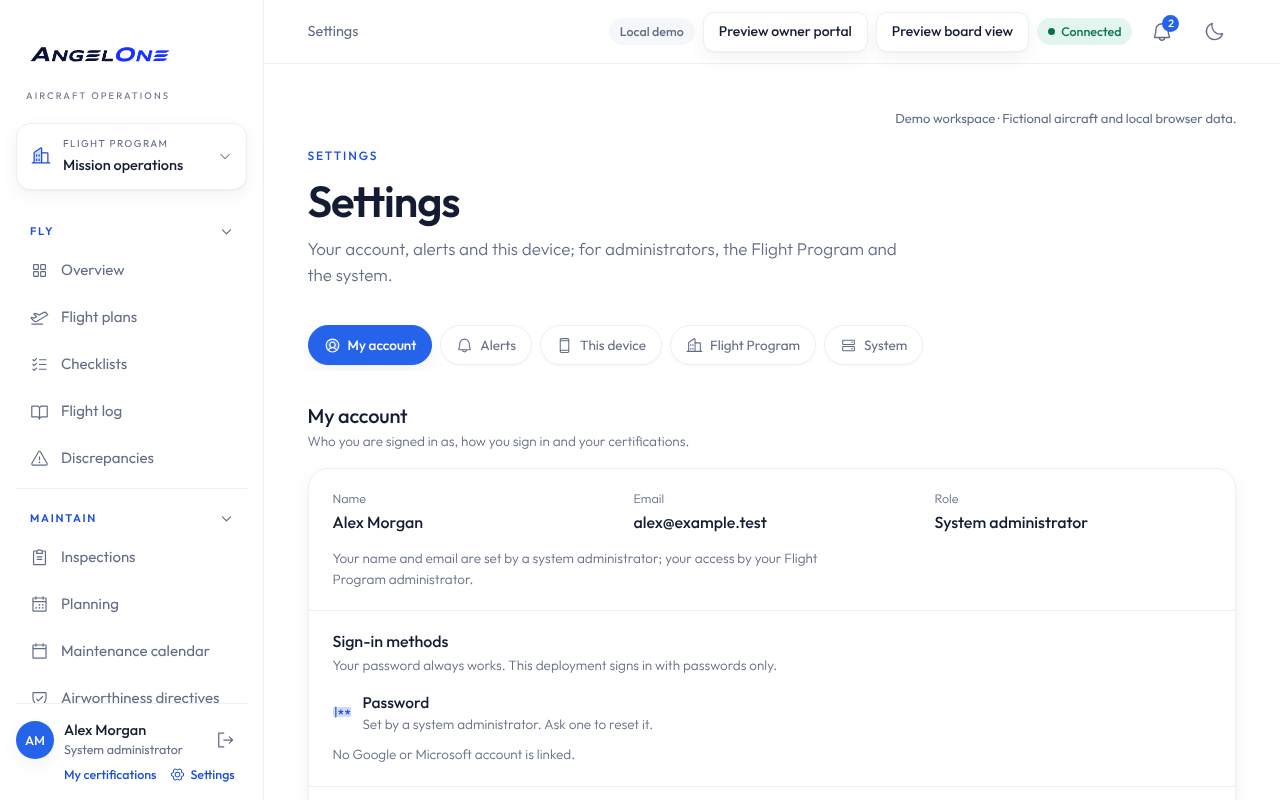
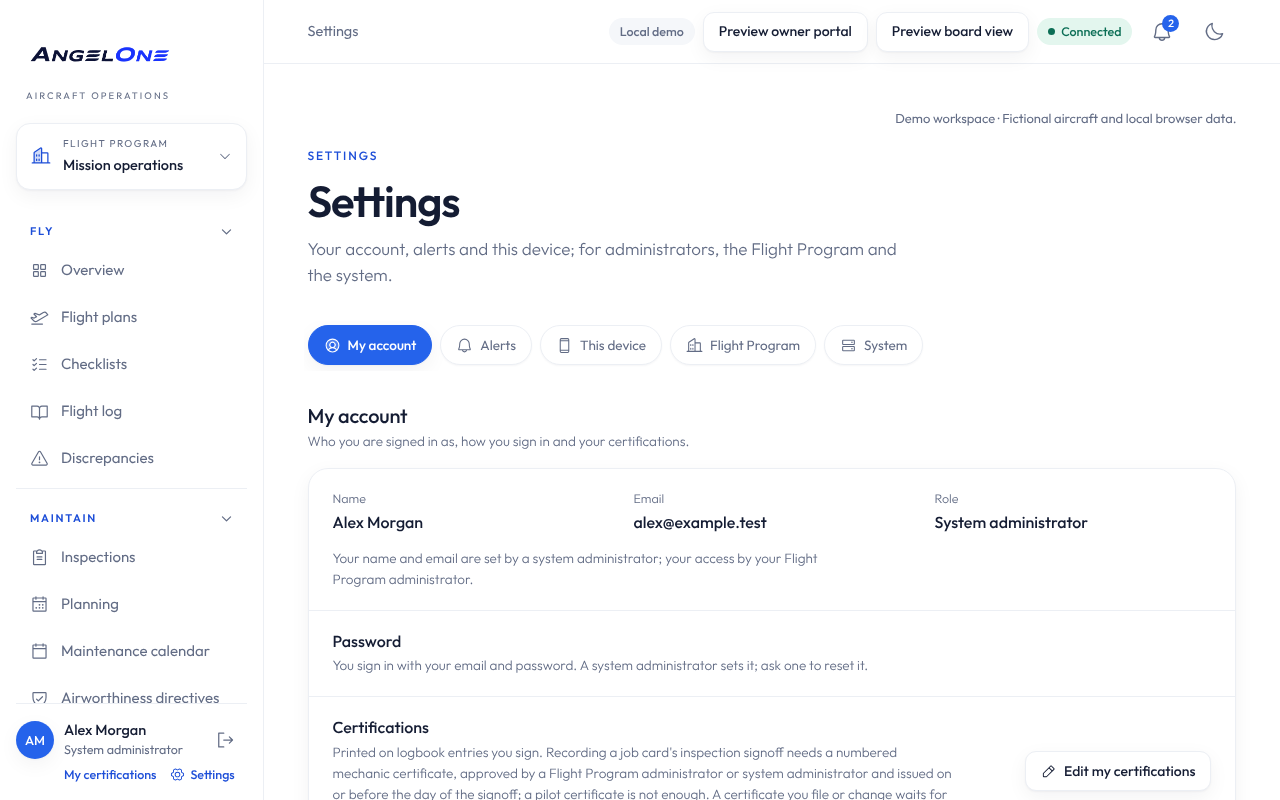
Remove Google and Microsoft sign-in from the handbook and wiki
ADR-0015 removed Google and Microsoft sign-in. The handbook, wiki and
incident runbook still described it as built but off: the FAQ answer,
the sign-in summary, the Entra secret rotation, the AUTH_GOOGLE_* and
AUTH_MICROSOFT_ENTRA_ID_* variables, the account to create, the costs
and accounts rows, and the wiki's sign-in buttons, linked-account line
and error messages.

Risks R14 and R15 now reflect password-only sign-in, with A3 and A10
closed. The decisions page marks ADR-0001 and ADR-0009 as superseded in
part and adds ADR-0015; the changelog records the removal. The wiki
Settings screenshot is retaken without the linked-account line.

Changed region(s): [[0.25, 0.875, 0.75, 1.0], [0.25, 0.7812, 0.6562, 0.8438], [0.8125, 0.9375, 0.9375, 0.9688]]

diff --git a/docs/handbook/4-money-and-risk/risks.md b/docs/handbook/4-money-and-risk/risks.md
@@ -31,8 +31,8 @@ The risk register for Angel One, as of 20 November 2026. Review it with the quar
 | R11 | **The file sweep deletes a needed file.** It removes stored files no record refers to ([runbook](../../runbooks/file-sweep.md))                                                                                                                                                                                                                                                                                                                      | Low                                                          | Medium: a file is gone until restored from a backup             | Starts in report mode and deletes nothing until `FILE_SWEEP=delete`; never touches files older than its first day or younger than a day; an independent review found no unsafe path; files are in every backup                                                                                                                                    | Aaron                                           | Reduced: review the first report before switching to delete          |
 | R12 | **A lost or stolen device.** As R10, plus pending entries                                                                                                                                                                                                                                                                                                                                                                                            | Medium                                                       | Medium                                                          | [Incident runbook: lost device](../../runbooks/incident-response.md#lost-or-stolen-device): reset the password, remote-erase                                                                                                                                                                                                                      | Aaron                                           | Reduced. Gap: the app cannot wipe a device that stays offline        |
 | R13 | **Public repository.** Anyone can read the code, docs and runbooks, and find a weakness first                                                                                                                                                                                                                                                                                                                                                        | Medium                                                       | Medium                                                          | No secrets in the repository (gitleaks scans every push, full history); CodeQL on; server checks every permission; disclosure policy ([SECURITY.md](../../../SECURITY.md)). Private would cost GitHub minutes and a paid plan ([costs](services-and-costs.md#github))                                                                             | Aaron                                           | Accepted                                                             |
-| R14 | **No second factor (2FA)** on app accounts: `@convex-dev/auth` has none ([ADR-0009](../../adr/0009-password-for-everyone-plus-google-and-microsoft.md)). Two-step sign-in on operator accounts (GitHub, Cloudflare, Convex, Google, Resend, registrar, Dropbox, Better Stack) is not yet confirmed or enforced                                                                                                                                       | Medium                                                       | High for an administrator or operator account                   | 15-character passwords; lockout after 10 failures; sign-ins logged; turn on 2FA on every operator account and require it for the GitHub organisation; revisit when the library adds passkeys                                                                                                                                                      | Aaron                                           | Open                                                                 |
-| R15 | **Open security findings** from the [4 Nov review](../../security/review-2026-11-04.md): A3 (first Google or Microsoft link trusts the provider; SSO stays off until fixed), A4 (sign-in timing shows which emails have accounts), S2 (anyone who knows an email can lock it for an hour), S11 (partly: an added person appears in the member list), C8 (service worker cache rule matches path only), A10 (hash refused SSO emails, when SSO is on) | Low to Medium                                                | Low to Medium                                                   | Each has a decision or a small fix listed in the review                                                                                                                                                                                                                                                                                           | Aaron                                           | Open                                                                 |
+| R14 | **No second factor (2FA)** on app accounts: `@convex-dev/auth` has none, and with password-only sign-in no outside provider can add one ([ADR-0015](../../adr/0015-remove-google-and-microsoft-sign-in.md)). Two-step sign-in on operator accounts (GitHub, Cloudflare, Convex, Google, Resend, registrar, Dropbox, Better Stack) is not yet confirmed or enforced                                                                                   | Medium                                                       | High for an administrator or operator account                   | 15-character passwords; lockout after 10 failures; sign-ins logged; turn on 2FA on every operator account and require it for the GitHub organisation; revisit when the library adds passkeys                                                                                                                                                      | Aaron                                           | Open                                                                 |
+| R15 | **Open security findings** from the [4 Nov review](../../security/review-2026-11-04.md): A4 (sign-in timing shows which emails have accounts), S2 (anyone who knows an email can lock it for an hour), S11 (partly: an added person appears in the member list), C8 (service worker cache rule matches path only)                                                                                                                                    | Low to Medium                                                | Low to Medium                                                   | Each has a decision or a small fix listed in the review                                                                                                                                                                                                                                                                                           | Aaron                                           | Open                                                                 |
 | R16 | **Account inventory and incident contacts are blank.** Nobody else knows who owns the registrar, Cloudflare, Resend or the FAA key                                                                                                                                                                                                                                                                                                                   | High                                                         | Medium                                                          | Fill in [accounts](../../runbooks/accounts.md), [incident response](../../runbooks/incident-response.md) and [break-glass](../../runbooks/break-glass-admin.md)                                                                                                                                                                                   | Aaron                                           | Open                                                                 |
 | R17 | **The auth library is pre-release** (`@convex-dev/auth` 0.0.x). A flaw in 0.0.95 let anyone delete records (S1, fixed)                                                                                                                                                                                                                                                                                                                               | Medium                                                       | High                                                            | Merge its security updates at once ([recurring tasks](../../go-live-checklist.md#recurring-tasks)); the dependency audit in CI                                                                                                                                                                                                                    | Aaron                                           | Reduced                                                              |
 | R18 | **Personal data kept forever.** Monthly backups are kept for good; a deletion request can't reach them                                                                                                                                                                                                                                                                                                                                               | Low                                                          | Low                                                             | Records retention comes first; say so in the privacy notice ([ADR-0008](../../adr/0008-daily-backups-off-site-90-days-monthly-forever.md))                                                                                                                                                                                                        | Aaron                                           | Accepted: privacy notice still to write                              |

diff --git a/docs/handbook/3-running-it/setup-from-scratch.md b/docs/handbook/3-running-it/setup-from-scratch.md
@@ -36,9 +36,8 @@ Use organization accounts, not personal ones, with two-step sign-in on. Record w
 | 6   | [FAA DRS API key](https://drs.faa.gov/drs-api)                                                                                                                      | Airworthiness-directive search and daily monitoring                                                                  | Optional; AD monitoring is off without it                                                      |
 | 7   | [Geoapify](https://myprojects.geoapify.com/)                                                                                                                        | Address lookup on purchase orders                                                                                    | Optional; addresses can be checked by hand                                                     |
 | 8   | Dropbox (organization account)                                                                                                                                      | The readable Excel copy of the records ([ADR-0011](../../adr/0011-readable-records-copy-in-dropbox.md))              | Optional                                                                                       |
-| 9   | Google Cloud project and Microsoft Entra app registration                                                                                                           | Google and Microsoft sign-in buttons ([ADR-0009](../../adr/0009-password-for-everyone-plus-google-and-microsoft.md)) | Optional                                                                                       |
-| 10  | Sentry                                                                                                                                                              | Browser and server error reports                                                                                     | Optional, off today ([monitoring runbook](../../runbooks/monitoring.md#sentry-browser-errors)) |
-| 11  | Aircraft Spruce                                                                                                                                                     | Parts catalogue and ordering, one login per Flight Program, entered in the app                                       | Optional                                                                                       |
+| 9   | Sentry                                                                                                                                                              | Browser and server error reports                                                                                     | Optional, off today ([monitoring runbook](../../runbooks/monitoring.md#sentry-browser-errors)) |
+| 10  | Aircraft Spruce                                                                                                                                                     | Parts catalogue and ordering, one login per Flight Program, entered in the app                                       | Optional                                                                                       |
 
 ## 2. Local development on a clean machine
 
@@ -130,8 +129,6 @@ Set them in the dashboard (production deployment → **Settings** → **Environm
 | `RESEND_FROM`                                                                                    | Convex        | With `RESEND_API_KEY`                                              | Verified sender                                                                                                          | `Angel One <alerts@mail.example.org>`                               |
 | `VAPID_PUBLIC_KEY`, `VAPID_PRIVATE_KEY`                                                          | Convex        | No                                                                 | Urgent alerts on devices ([section 6.2](#62-device-alerts-web-push))                                                     | base64url key pair                                                  |
 | `VAPID_SUBJECT`                                                                                  | Convex        | With the VAPID keys                                                | Contact for push services                                                                                                | `mailto:accounts@example.org`                                       |
-| `AUTH_GOOGLE_ID`, `AUTH_GOOGLE_SECRET`                                                           | Convex        | No                                                                 | Google sign-in button ([accounts runbook](../../runbooks/accounts.md#google-cloud-sign-in-client))                       | `1234-abc.apps.googleusercontent.com`, `GOCSPX-...`                 |
-| `AUTH_MICROSOFT_ENTRA_ID_ID`, `AUTH_MICROSOFT_ENTRA_ID_SECRET`, `AUTH_MICROSOFT_ENTRA_ID_ISSUER` | Convex        | No                                                                 | Microsoft sign-in button ([accounts runbook](../../runbooks/accounts.md#microsoft-entra-app-registration))               | GUID, secret value, `https://login.microsoftonline.com/common/v2.0` |
 | `FAA_DRS_API_KEY`                                                                                | Convex        | No                                                                 | Fallback FAA key until one is saved in **Settings → System**, which is the normal place                                  | FAA-issued key                                                      |
 | `GEOAPIFY_API_KEY`                                                                               | Convex        | No                                                                 | Fallback Geoapify key until one is saved in **Settings → System**                                                        | 32 hex characters                                                   |
 | `FILE_SWEEP`                                                                                     | Convex        | No; unset means `report`                                           | The hourly sweep of unreferenced files: `report`, `delete` or `off` ([file sweep runbook](../../runbooks/file-sweep.md)) | `delete`                                                            |
@@ -288,7 +285,7 @@ Sign in as the first administrator, then:
 4. **Users:** Administration → Users → create each person and assign programs and groups. Accounts are made by administrators only; there is no public sign-up ([accounts runbook](../../runbooks/accounts.md)).
 5. **Integrations:** Settings → System → **FAA API key and renewal** ([airworthiness](../../airworthiness.md)) and the Geoapify key ([addresses](../../address-verification.md)); Settings → Flight Program → Aircraft Spruce account and labor rate.
 6. **Aircraft:** Aircraft → **Set up an aircraft**: verified opening Hobbs and tach, total-time adjustment, cycles and landings; installed components from [component templates](../../component-templates.md); inspections and AD compliance from the CSV templates (download in the wizard, dry run before saving) ([aircraft setup](../../aircraft-setup.md), [inspection templates](../../inspection-templates.md), [maintenance CSV import](../../maintenance-csv-import.md)).
-7. **Expiring dates:** Settings → Flight Program → **Program expiring dates** (insurance, registration) and Settings → System → **Deployment expiring dates** (Cloudflare token, Entra secret, VAPID keys, `security.txt`) ([alerts](../../alerts.md#expiring-dates)).
+7. **Expiring dates:** Settings → Flight Program → **Program expiring dates** (insurance, registration) and Settings → System → **Deployment expiring dates** (Cloudflare token, VAPID keys, `security.txt`) ([alerts](../../alerts.md#expiring-dates)).
 8. **Manuals:** Reference library → **Upload manual** (PDF up to 200 MiB). On each hangar device, add the app to the Home Screen and use **Keep on this device** ([reference library](../../reference-library.md)).
 9. **File sweep:** after reviewing its first report, set `FILE_SWEEP=delete` ([file sweep runbook](../../runbooks/file-sweep.md)).
 10. **Break-glass account:** set it up ([runbook](../../runbooks/break-glass-admin.md)).

diff --git a/docs/handbook/5-history/decisions.md b/docs/handbook/5-history/decisions.md
@@ -9,7 +9,7 @@ Every standing decision, with its date and the choice made. Where an ADR exists 
 
 | ADR                                                                       | Date        | Decision                                                                                              |
 | ------------------------------------------------------------------------- | ----------- | ----------------------------------------------------------------------------------------------------- |
-| [0001](../../adr/0001-sso-in-app-not-cloudflare-access.md)                | 1 Nov 2026  | Access control stays in the app; Cloudflare Access is not the gate                                    |
+| [0001](../../adr/0001-sso-in-app-not-cloudflare-access.md)                | 1 Nov 2026  | Access control stays in the app; Cloudflare Access is not the gate. Superseded in part by ADR-0015    |
 | [0002](../../adr/0002-administrator-provisioned-accounts.md)              | 1 Nov 2026  | Administrators create accounts; no public sign-up or self-service reset                               |
 | [0003](../../adr/0003-server-writes-through-one-command-transaction.md)   | 1 Nov 2026  | Server writes go through one command transaction (`runCommand`)                                       |
 | [0004](../../adr/0004-logbook-generator-and-status-record-system.md)      | 1 Nov 2026  | The app writes logbook wording and keeps the 91.417(a)(2) status records; it is not the signed record |
@@ -17,11 +17,12 @@ Every standing decision, with its date and the choice made. Where an ADR exists 
 | [0006](../../adr/0006-architecture-cleanup-priorities-before-launch.md)   | 1 Nov 2026  | Which clean-ups happen before launch                                                                  |
 | [0007](../../adr/0007-convex-pro-single-seat.md)                          | 2 Nov 2026  | Convex Pro, one seat, one project                                                                     |
 | [0008](../../adr/0008-daily-backups-off-site-90-days-monthly-forever.md)  | 2 Nov 2026  | Daily off-site backups, kept 90 days; one a month kept forever                                        |
-| [0009](../../adr/0009-password-for-everyone-plus-google-and-microsoft.md) | 2 Nov 2026  | Everyone keeps a password; Google and Microsoft alongside                                             |
+| [0009](../../adr/0009-password-for-everyone-plus-google-and-microsoft.md) | 2 Nov 2026  | Everyone keeps a password; Google and Microsoft alongside. Superseded in part by ADR-0015             |
 | [0010](../../adr/0010-one-convex-administrator.md)                        | 3 Nov 2026  | One Convex administrator, no second dashboard user                                                    |
 | [0011](../../adr/0011-readable-records-copy-in-dropbox.md)                | 3 Nov 2026  | A readable Excel copy in Dropbox, alongside the backup                                                |
 | [0012](../../adr/0012-urgent-alerts-by-web-push-and-immediate-email.md)   | 9 Nov 2026  | Urgent alerts by Web Push and immediate email; expiring dates are records                             |
 | [0013](../../adr/0013-history-retention-window.md)                        | 19 Nov 2026 | The workspace keeps a retention window; older history loads page by page                              |
+| [0015](../../adr/0015-remove-google-and-microsoft-sign-in.md)             | 20 Nov 2026 | Google and Microsoft sign-in removed; everyone signs in with a password                               |
 
 ## 20 Nov 2026
 
@@ -35,6 +36,7 @@ Every standing decision, with its date and the choice made. Where an ADR exists 
 | Backup encryption                                           | Backups work **without encryption**; encryption optional and off by default ([ADR-0014](../../adr/0014-backups-stored-unencrypted.md)) | [Risks R2](../4-money-and-risk/risks.md)                                                                                   |
 | Certificate approval                                        | Nobody approves their own certificate, administrators included; another administrator approves                                         | [User certifications](../../user-certifications.md), review S20/A5                                                         |
 | D13: the price of an issued part                            | Kept in the work order's administrator-only cost record                                                                                | [Parts and repair requests](../../parts-and-repair-requests.md)                                                            |
+| Google and Microsoft sign-in                                | Removed; everyone signs in with a password. Closes security findings A3 and A10                                                        | [ADR-0015](../../adr/0015-remove-google-and-microsoft-sign-in.md)                                                          |
 
 ## History paging, H1–H7 (19 Nov 2026)
 
@@ -89,8 +91,6 @@ From [ADR-0013](../../adr/0013-history-retention-window.md).
 | 4 Nov 2026  | No idle sign-out timeout                                                                                                    | [Incident runbook](../../runbooks/incident-response.md#lost-or-stolen-device)           |
 | 19 Nov 2026 | The offline copy stays seven days, unencrypted; phones and tablets need a screen lock; sign-out clears the device (S6, S10) | [Offline](../../offline.md#signing-out-and-shared-devices)                              |
 | 19 Nov 2026 | File links expire after five minutes (S7, SE-12, D17)                                                                       | [File links](../../file-links.md)                                                       |
-| 19 Nov 2026 | Google and Microsoft sign-in stay off until A3 (first link trusts the provider) is fixed                                    | [Review 4 Nov](../../security/review-2026-11-04.md)                                     |
-| 19 Nov 2026 | Store a hash of refused SSO emails instead of the email, once SSO is on (A10)                                               | same                                                                                    |
 | 19 Nov 2026 | Backup-age warning after 26 hours instead of 36 (D10)                                                                       | [ADR-0008](../../adr/0008-daily-backups-off-site-90-days-monthly-forever.md)            |
 | 19 Nov 2026 | CodeQL default set-up on (P4)                                                                                               | [Review 4 Nov](../../security/review-2026-11-04.md)                                     |
 | —           | Security contact: accounts@angeloneonline.org                                                                               | [SECURITY.md](../../../SECURITY.md)                                                     |

diff --git a/docs/handbook/4-money-and-risk/services-and-costs.md b/docs/handbook/4-money-and-risk/services-and-costs.md
@@ -22,7 +22,7 @@ Every outside service Angel One uses: what it does, which plan, what it costs, w
 | FAA DRS API key                           | Key from the FAA               | Not known                              | For AD monitoring          |
 | Geoapify (address lookup)                 | Free                           | $0                                     | Optional feature           |
 | Aircraft Spruce                           | The program's customer account | Not known                              | Optional feature           |
-| Google Workspace                          | Organisation email             | Not part of the app's cost             | No (Google sign-in is off) |
+| Google Workspace                          | Organisation email             | Not part of the app's cost             | No                         |
 | Dropbox                                   | Optional readable copy         | $0 if on Basic                         | No                         |
 | Sentry                                    | Not used                       | $0                                     | No                         |
 
@@ -153,7 +153,7 @@ Not known: how many files the program will upload, and Convex's cloud bandwidth 
 
 |                 |                                                                                                                                                                                                                                                                                                                                                                               |
 | --------------- | ----------------------------------------------------------------------------------------------------------------------------------------------------------------------------------------------------------------------------------------------------------------------------------------------------------------------------------------------------------------------------- |
-| Does            | The organisation's email (`angeloneaviation.org` mail is Google). Could provide Google sign-in, which is built but off                                                                                                                                                                                                                                                        |
+| Does            | The organisation's email (`angeloneaviation.org` mail is Google)                                                                                                                                                                                                                                                                                                              |
 | Price           | Business Starter $7 per user a month (annual) or $8.40 (flexible); Business Standard $14 or $16.80 ([Google](https://knowledge.workspace.google.com/admin/billing/compare-flexible-and-annual-fixed-term-payment-plans)). A nonprofit edition is $0 ([Google for Nonprofits](https://www.google.com/nonprofits/offerings/workspace/)). Which one the program has is not known |
 | If it goes away | Nothing in the app depends on it today                                                                                                                                                                                                                                                                                                                                        |
 | Owner           | Not recorded yet                                                                                                                                                                                                                                                                                                                                                              |
@@ -177,8 +177,7 @@ Not known: how many files the program will upload, and Convex's cloud bandwidth 
 
 ## Accounts that cost nothing but must be kept
 
-| Account                                                       | Why it matters                                                | Where                                                                       |
-| ------------------------------------------------------------- | ------------------------------------------------------------- | --------------------------------------------------------------------------- |
-| Microsoft Entra app registration, Google Cloud sign-in client | Only if single sign-on is switched on; Entra's secret expires | [Accounts runbook](../../runbooks/accounts.md#google-and-microsoft-sign-in) |
-| The `accounts@angeloneonline.org` mailbox                     | Security reports arrive there                                 | [SECURITY.md](../../../SECURITY.md)                                         |
-| A2 Hosting cPanel                                             | Published the old test website; to be retired                 | [Accounts](../../runbooks/accounts.md)                                      |
+| Account                                   | Why it matters                                | Where                                  |
+| ----------------------------------------- | --------------------------------------------- | -------------------------------------- |
+| The `accounts@angeloneonline.org` mailbox | Security reports arrive there                 | [SECURITY.md](../../../SECURITY.md)    |
+| A2 Hosting cPanel                         | Published the old test website; to be retired | [Accounts](../../runbooks/accounts.md) |

diff --git a/docs/wiki/Settings.md b/docs/wiki/Settings.md
@@ -19,11 +19,8 @@ change it. Owners and board members have no Settings page.
 | Item              | What you can do                                                                                                  |
 | ----------------- | ---------------------------------------------------------------------------------------------------------------- |
 | Name, email, role | Read only. A system administrator sets your name and email; your Flight Program administrator sets your access.  |
-| Sign-in methods   | Your password always works. A linked Google or Microsoft account is listed with its email.                       |
+| Password          | You sign in with your email and password. A system administrator sets it; ask one to reset it.                   |
 | Certifications    | **Edit my certifications**: Pilot, and Certified mechanic with Airframe, Powerplant and Inspection Authorization |
-
-Signing in with Google or Microsoft links that account when its verified email
-matches your Angel One account.
 
 ### Certifications
 
@@ -72,7 +69,7 @@ Users and access are in [Administration](Administration.md).
 
 | Item                      | Does                                                                                                                                                                                          |
 | ------------------------- | --------------------------------------------------------------------------------------------------------------------------------------------------------------------------------------------- |
-| Deployment status         | What the deployment has turned on (email, device alerts, Google and Microsoft sign-in)                                                                                                        |
+| Deployment status         | What the deployment has turned on (alert email, device alerts, browser error reporting)                                                                                                       |
 | FAA API key and renewal   | **Update…** stores the FAA key and its expiry date. Status: **Active**, **Renew soon**, **Expired**, **No expiry date** or **Not set up**. **Request / renew key at FAA** opens the FAA site. |
 | Address verification      | The address lookup key (**Update…**)                                                                                                                                                          |
 | Deployment expiring dates | Dates the deployment must renew ([Alerts](Alerts.md#expiring-dates))                                                                                                                          |

diff --git a/docs/wiki/Troubleshooting.md b/docs/wiki/Troubleshooting.md
@@ -9,9 +9,6 @@ shows them.
 | -------------------------------------------------------------------------------------------------------------------------------------- | ---------------------------------------------------------------------------------------------------------------------------------------------------------------- |
 | "Email or password is incorrect. After too many wrong tries, sign-in pauses for a while; your administrator can reset your password."  | Check both. After 10 wrong tries in an hour, sign-in pauses: one more try is allowed every 6 minutes. A system administrator's password reset clears it at once. |
 | "Connect to sign in for the first time on this device."                                                                                | Connect, then sign in                                                                                                                                            |
-| "Accounts are managed by your administrator." with "No active Angel One account uses the email of that Google account." (or Microsoft) | Sign in with your password, or ask your administrator to use that email                                                                                          |
-| "Google did not confirm that email address." (or Microsoft)                                                                            | Sign in with your password                                                                                                                                       |
-| "Sign-in with Google did not finish." (or Microsoft)                                                                                   | Try again, or sign in with your password                                                                                                                         |
 | **Time to reconnect.** "Your seven-day offline access has expired. Pending entries are preserved. Sign in again to continue."          | Connect and **Return to sign in**. Use the same account so your entries sync.                                                                                    |
 | "This device's clock is behind the time you signed in. Set the date and time to update automatically, then reopen the app."            | Turn on automatic date and time                                                                                                                                  |
 

diff --git a/docs/handbook/3-running-it/checklists.md b/docs/handbook/3-running-it/checklists.md
@@ -53,7 +53,7 @@ Budget 1–2 hours.
 ## Yearly
 
 - [ ] **Node version.** Aaron, 30 min. Raise `node-version` in all four workflows to the current Node LTS before the pinned one ends (Node 22: April 2027). Rebuild from a clean checkout: `npm ci && npm run check`.
-- [ ] **Rotate tokens.** Aaron, 30 min. The Cloudflare API token, the Microsoft Entra client secret (if SSO is on) and the Dropbox tokens; record new expiry dates in [accounts](../../runbooks/accounts.md) and under Expiring dates ([incident runbook: leaked secret](../../runbooks/incident-response.md#leaked-secret) has the steps for each).
+- [ ] **Rotate tokens.** Aaron, 30 min. The Cloudflare API token and the Dropbox tokens; record new expiry dates in [accounts](../../runbooks/accounts.md) and under Expiring dates ([incident runbook: leaked secret](../../runbooks/incident-response.md#leaked-secret) has the steps for each).
 - [ ] **VAPID key review.** Aaron, 5 min. The push key pair's yearly review date under Expiring dates. Rotating it signs every device out of alerts ([monitoring](../../runbooks/monitoring.md#alerts-by-email-and-on-devices)).
 - [ ] **Backup key.** Aaron, 15 min. If backup encryption is switched on, decrypt one backup with the organisation's sealed key copy ([backup runbook](../../runbooks/backup-restore.md)).
 - [ ] **Cost review.** Aaron, 15 min. Convex usage, R2 size and the Dropbox folder against [services and costs](../4-money-and-risk/services-and-costs.md). Monthly archives grow forever by design ([ADR-0008](../../adr/0008-daily-backups-off-site-90-days-monthly-forever.md)).

diff --git a/docs/handbook/3-running-it/operations.md b/docs/handbook/3-running-it/operations.md
@@ -13,7 +13,7 @@ How production is released, backed up, watched and repaired. Each section summar
 | [Break-glass administrator](../../runbooks/break-glass-admin.md) | Get back in when no administrator can sign in                                 |
 | [Production database access](../../runbooks/database-access.md)  | The rules for touching production data, and the hand-written change-log entry |
 | [Credential encryption key](../../runbooks/credentials-key.md)   | Rotate the key that seals the FAA, Geoapify and Aircraft Spruce credentials   |
-| [Accounts](../../runbooks/accounts.md)                           | Who owns each outside account; user lockouts and sign-in methods              |
+| [Accounts](../../runbooks/accounts.md)                           | Who owns each outside account; user lockouts and the sign-in log              |
 
 ## Releasing
 
@@ -130,7 +130,6 @@ Set in the Convex dashboard (Settings → Environment Variables) or with `npx co
 | `VAPID_PUBLIC_KEY`, `VAPID_PRIVATE_KEY`, `VAPID_SUBJECT` | Device push                                                     |
 | `RECORDS_TIME_ZONE`                                      | The calendar day for server alerts (default `America/New_York`) |
 | `FILE_SWEEP`                                             | `report` (default), `delete` or `off`                           |
-| `AUTH_GOOGLE_*`, `AUTH_MICROSOFT_ENTRA_ID_*`             | Single sign-on buttons (off until A3 is fixed)                  |
 
 Settings → System → **Deployment status** shows which features are on.
 

diff --git a/docs/handbook/2-how-it-works/how-it-works.md b/docs/handbook/2-how-it-works/how-it-works.md
@@ -146,11 +146,10 @@ Detail: [alerts](../../alerts.md), [ADR-0012](../../adr/0012-urgent-alerts-by-we
 
 ## Sign-in
 
-- Everyone signs in with **email and password**. Administrators create accounts ([ADR-0002](../../adr/0002-administrator-provisioned-accounts.md), [ADR-0009](../../adr/0009-password-for-everyone-plus-google-and-microsoft.md)).
+- Everyone signs in with **email and password**. Administrators create accounts ([ADR-0002](../../adr/0002-administrator-provisioned-accounts.md), [ADR-0009](../../adr/0009-password-for-everyone-plus-google-and-microsoft.md), [ADR-0015](../../adr/0015-remove-google-and-microsoft-sign-in.md)).
 - Passwords: **15 to 128 characters**, no composition rules, common passwords refused (NIST SP 800-63B).
 - **10 failed sign-ins in an hour** lock the account; one attempt returns every 6 minutes. A system administrator's **Reset password** clears it at once ([accounts runbook](../../runbooks/accounts.md)).
 - A session lasts **seven days**, matching the offline window. A device clock up to five minutes behind still opens.
-- Google and Microsoft sign-in are built but **off** until security finding A3 is fixed (decided 19 Nov). They never create an account.
 - The app has **no second factor of its own** ([risks](../4-money-and-risk/risks.md)).
 - Every sign-in is written to the change log ("User · signed in", with the method).
 - Disabling a user or resetting a password ends every session at once.

diff --git a/docs/handbook/5-history/changelog.md b/docs/handbook/5-history/changelog.md
@@ -6,6 +6,12 @@ What changed, and when. Newest first. Each line gives the finding's id, what cha
 - **Ids:** OD, RM, LO and E are the bug register's; T, A, S, C and P the security reviews'; AC, FL, MX, NA, NB, OP, PT, SE, SZ and UI the 10 Nov bug hunt's; B, C (stale screens) its stale-screen audit's; D1–D25 the hunt's decisions ([decisions](decisions.md)).
 - The local history starts on 12 Nov 2026 (`fcadec0`), so earlier commits named in the docs can't be opened here. For work before then, read the bug hunts' and reviews' status columns.
 
+## Not yet released
+
+| Change                                                                                                                                      | Commit                                     |
+| ------------------------------------------------------------------------------------------------------------------------------------------- | ------------------------------------------ |
+| Google and Microsoft sign-in removed ([ADR-0015](../../adr/0015-remove-google-and-microsoft-sign-in.md)); everyone signs in with a password | `89555e7`, `130a257`, `c965324`, `f51c49d` |
+
 ## 20 Nov 2026, release 3: the purchasing window, lighter saves and the Weekly summary
 
 Released to production at `e99058c` (about 17:00 UTC). Aaron's answers that day: A, A, A, A ([decisions](decisions.md#20-nov-2026)).

diff --git a/docs/runbooks/incident-response.md b/docs/runbooks/incident-response.md
@@ -125,7 +125,7 @@ Records are append-only: a wrong entry is answered with a correction, never by e
 1. **Where does it run?** `npm audit` lists advisories and `npm ls <package>` shows what pulls it in. Code reached from `src/` ships to browsers, from `convex/` runs on Convex; the rest is build and test tooling. `jsqr` ships but is a dev dependency (review finding S21), so `npm audit --omit=dev` misses it. The `wrangler` version pinned in `deploy.yml` is outside Dependabot.
 2. **Is it reachable?** Is the vulnerable code called, with input an outsider controls? The 2026-11-02 review found DOMPurify and seroval unreachable, and `@convex-dev/auth` 0.0.95 open to anyone (SEV1).
 3. **Fix** on a branch: the Dependabot pull request, or `npm install <package>@<fixed version>`. Run `npm run check` and `npm run test:e2e`, and for the auth library the auth `convex-test` suites. Merge; a green CI push deploys.
-4. **No fix yet**: turn off the feature that reaches it if you can (removing a provider's `AUTH_*` variables hides that sign-in button) and record the decision in the security review.
+4. **No fix yet**: turn off the feature that reaches it if you can and record the decision in the security review.
 5. Look in the change log for unexpected entries while it was exposed.
 
 ## Lost or stolen device

diff --git a/docs/handbook/1-start-here/faq.md b/docs/handbook/1-start-here/faq.md
@@ -58,11 +58,8 @@ Ten wrong passwords in an hour lock the account; it clears within the hour. A sy
 **No administrator can sign in.**
 Use the break-glass account ([break-glass runbook](../../runbooks/break-glass-admin.md)). It is not set up yet.
 
-**Can people sign in with Google or Microsoft?**
-It is built but off until security finding A3 is fixed ([4 Nov review](../../security/review-2026-11-04.md)).
-
 **Is there two-factor sign-in?**
-Not in the app; the sign-in library has none ([ADR-0009](../../adr/0009-password-for-everyone-plus-google-and-microsoft.md), [risks](../4-money-and-risk/risks.md)).
+Not in the app; the sign-in library has none ([ADR-0015](../../adr/0015-remove-google-and-microsoft-sign-in.md), [risks](../4-money-and-risk/risks.md)).
 
 **What happens to a lost phone's data?**
 The copy is readable for seven days from sign-in if the phone is unlocked. Reset the user's password and remote-erase the phone ([incident runbook](../../runbooks/incident-response.md#lost-or-stolen-device)).
